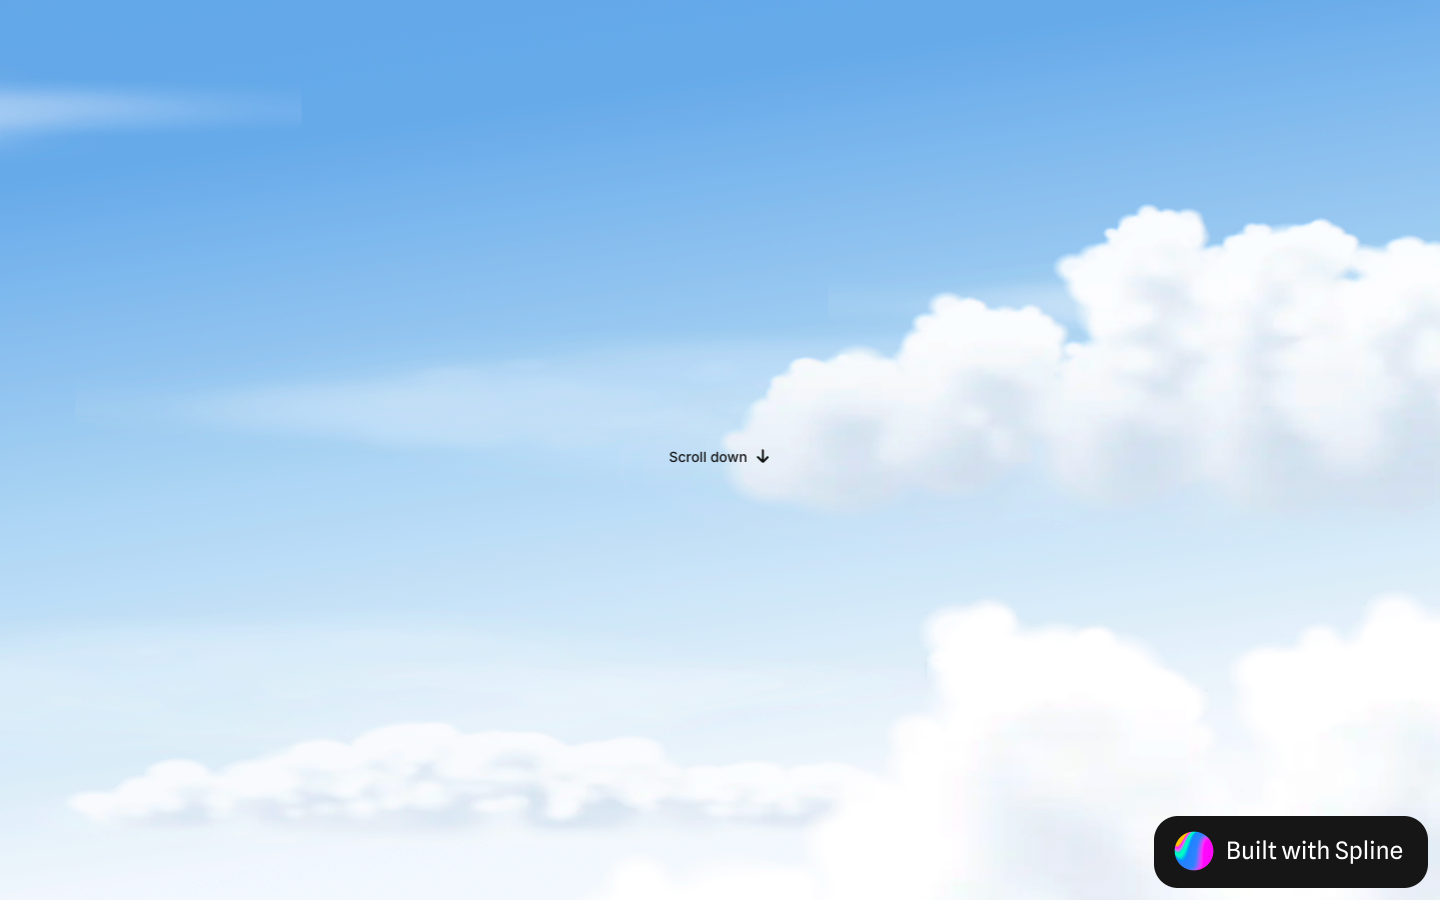
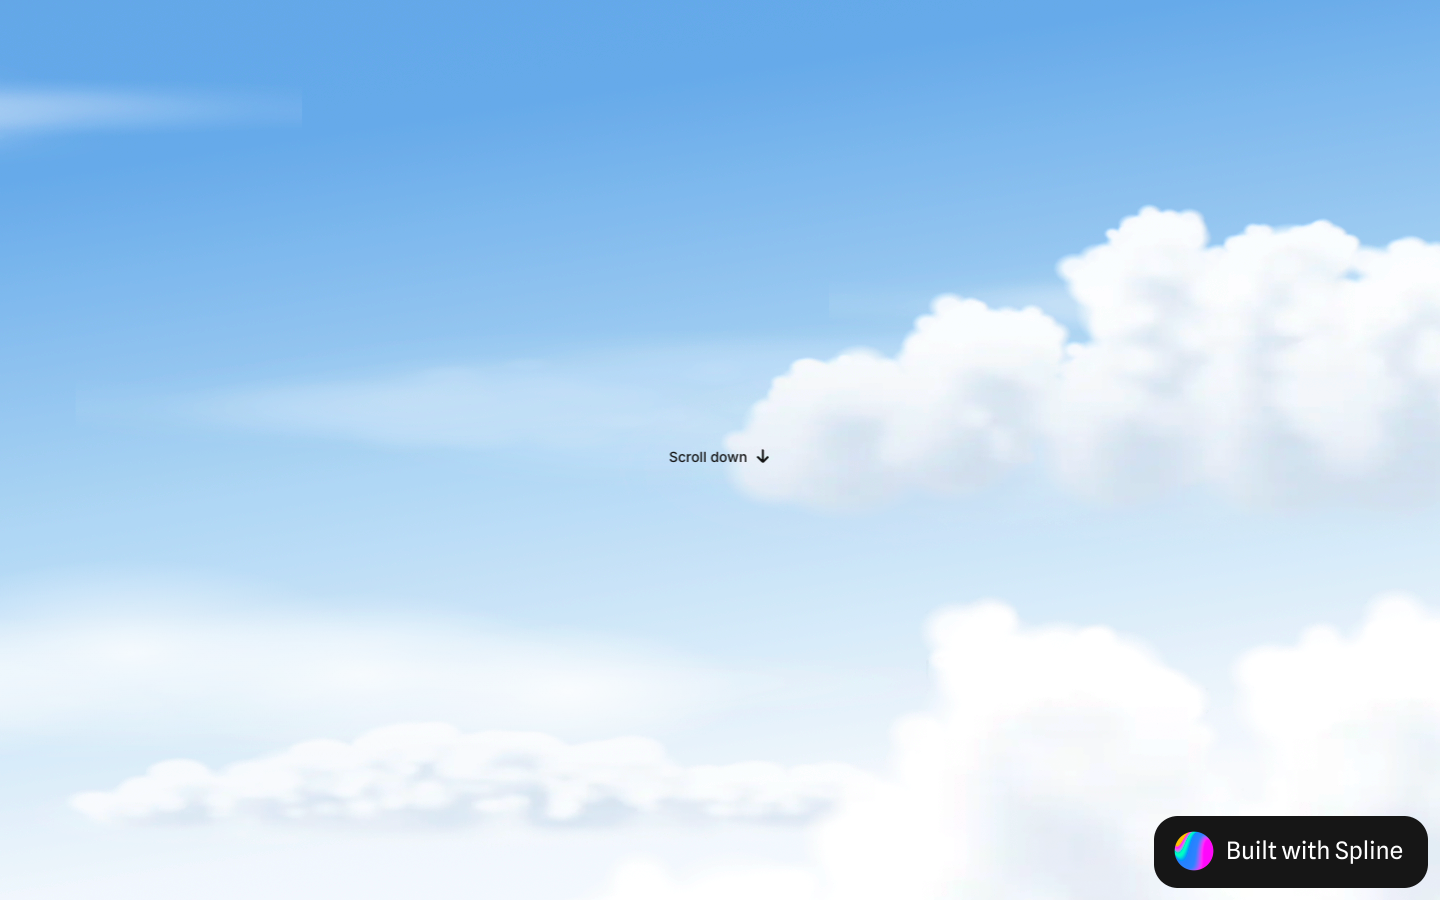
Intro: soft cloud wisps drift in front of the text

Changed region(s): [[0.0, 0.6533, 0.1562, 0.7467], [0.2188, 0.7156, 0.25, 0.7467]]

diff --git a/src/styles/sections/intro.css b/src/styles/sections/intro.css
@@ -22,6 +22,7 @@
   letter-spacing: var(--tracking-display);
 }
 .intro__part { display: block; text-wrap: balance; }
+.intro__mist { display: none; }
 
 /* Skip intro: in the page for screen readers and keyboard users from the first frame,
    but not drawn. It becomes visible, top right, only while it has keyboard focus. */
@@ -83,6 +84,7 @@
   to { opacity: 1; transform: translateY(0); filter: blur(0); }
 }
 @keyframes intro-part-out { from { opacity: 1; } to { opacity: 0; } }
+@keyframes wisp-drift { from { transform: translateX(calc(var(--shift-wisp-drift) * -1)); } to { transform: translateX(var(--shift-wisp-drift)); } }
 @keyframes hint-float { from { transform: translateY(calc(var(--shift-hint-float) * -1)); } to { transform: translateY(var(--shift-hint-float)); } }
 
 /* Staged mode */
@@ -106,6 +108,30 @@
   .js .hero__content { transition: opacity var(--duration-base) var(--ease-enter); }
   .is-intro-lingering .hero__content { opacity: 0; transition: none; }
   .is-intro-leaving .intro__lines { opacity: 0; }
+
+  /* Cloud wisps in front of the text, so the lines look like they float among clouds.
+     scroll.js moves each wisp up with the intro scroll (the outer span);
+     the inner span sways sideways on its own. */
+  .js .intro__mist { display: block; position: absolute; inset: 0; pointer-events: none; overflow: hidden; opacity: var(--opacity-mist); }
+  .js .intro__wisp { position: absolute; top: 50%; width: var(--size-wisp-w); height: var(--size-wisp-h); margin-top: calc(var(--size-wisp-h) / -2); will-change: transform; }
+  .js .intro__wisp > span {
+    display: block;
+    width: 100%;
+    height: 100%;
+    background:
+      radial-gradient(28% 42% at 22% 58%, var(--color-mist), var(--color-mist-edge) 70%),
+      radial-gradient(30% 50% at 42% 46%, var(--color-mist), var(--color-mist-edge) 70%),
+      radial-gradient(26% 44% at 62% 54%, var(--color-mist), var(--color-mist-edge) 70%),
+      radial-gradient(22% 36% at 80% 60%, var(--color-mist), var(--color-mist-edge) 70%);
+    animation: wisp-drift var(--duration-wisp-drift) ease-in-out infinite alternate;
+  }
+  .js .intro__wisp--1 { left: -22vw; }
+  .js .intro__wisp--2 { right: -26vw; }
+  .js .intro__wisp--2 > span { animation-delay: calc(var(--duration-wisp-drift) / -3); }
+  .js .intro__wisp--3 { left: -8vw; }
+  .js .intro__wisp--3 > span { animation-direction: alternate-reverse; }
+  .js .intro__wisp--4 { right: -18vw; }
+  .js .intro__wisp--4 > span { animation-delay: calc(var(--duration-wisp-drift) / -2); }
 
   /* Scroll label: floats in the middle of the empty sky until the first scroll */
   .js .intro__hint { bottom: auto; top: 50%; transform: translate(-50%, -50%); }

diff --git a/src/scroll.js b/src/scroll.js
@@ -120,8 +120,26 @@ function applyCamera() {
     dx: pointer.x * TRACK.slide * follow,
     rotY: -pointer.x * TRACK.turn * follow,
   });
+  moveMist(introT + MIST.linger * progress[1] * (1 - gate.value));
   // The static image slides the same way, for phones and before the scene has loaded.
   setFallbackShift(clamp01((introT * 4.4 + progress[1] * gate.value) / 5.4)); // weighted by scroll length; the hills wait for the hero too
+}
+
+// Cloud wisps in front of the intro text. Each one rises up through the screen and passes
+// the text at a different point of the intro (roughly one per line), so every line is
+// veiled for a moment and then clears. They follow the same even pace as the camera.
+const MIST = {
+  passAt: [0.14, 0.38, 0.62, 0.86], // intro progress at which each wisp crosses the middle
+  travel: 170,                      // screen heights (in vh) a wisp rises per whole intro
+  linger: 0.35,                     // keeps rising a little while the last lines finish
+};
+let wisps = null;
+function moveMist(t) {
+  if (!wisps) wisps = Array.from(document.querySelectorAll('.intro__wisp'));
+  wisps.forEach((wisp, i) => {
+    const y = (MIST.passAt[i] - t) * MIST.travel;
+    wisp.style.transform = `translate3d(0, ${y.toFixed(2)}vh, 0)`;
+  });
 }
 
 // Lets intro.js push the camera a little along its path and back.

diff --git a/index.html b/index.html
@@ -39,6 +39,14 @@
             <span class="intro__part">inefficient player.</span>
           </p>
 
+          <!-- Soft cloud wisps in front of the text: decoration only -->
+          <div class="intro__mist" aria-hidden="true">
+            <span class="intro__wisp intro__wisp--1"><span></span></span>
+            <span class="intro__wisp intro__wisp--2"><span></span></span>
+            <span class="intro__wisp intro__wisp--3"><span></span></span>
+            <span class="intro__wisp intro__wisp--4"><span></span></span>
+          </div>
+
           <a class="intro__hint" id="intro-hint" href="#hero">
             <span class="intro__hint-inner">
               Scroll down

diff --git a/src/styles/tokens.css b/src/styles/tokens.css
@@ -71,6 +71,15 @@
   --ease-enter: cubic-bezier(0.22, 1, 0.36, 1);    /* fast start, soft landing */
   --ease-exit: cubic-bezier(0.4, 0, 1, 1);          /* soft start, quick leave */
 
+  /* Cloud wisps in front of the intro text */
+  --color-mist: rgba(255, 255, 255, 0.95);
+  --color-mist-edge: rgba(255, 255, 255, 0);
+  --opacity-mist: 0.8;                     /* translucent, so covered letters still read */
+  --size-wisp-w: 80vw;
+  --size-wisp-h: 30vh;
+  --duration-wisp-drift: 16s;              /* slow sideways sway, on top of the scroll motion */
+  --shift-wisp-drift: 3vw;
+
   /* Layers */
   --z-scene: 0;
   --z-content: 1;

diff --git a/design/page-spec.md b/design/page-spec.md
@@ -23,6 +23,7 @@ Motion:
 - The intro stays pinned while the reader scrolls through 4.4 screens. Only one part is visible at a time.
 - Each part owns a quarter of the intro. When its quarter reaches the middle of the screen, the part is revealed: it fades in, rises 30px and comes out of an 8px blur over 0.8 s. The part before it fades out in 0.2 s first.
 - Scrolling is never locked: the camera and clouds follow the scroll as before. Only the text is locked into a sequence: lines play strictly in order, one at a time, and each stays for its full reveal plus a short rest (about 1.2 s) before the next may replace it. The lines share the first 75% of the pinned scroll; the last 25% is runway so the final line finishes before the intro ends. If the reader scrolls past the intro before the last line has played, the scroll and the camera carry on while the text stays on screen, but the camera stays in the clouds (sinking and drifting forward). The hills belong to the hero only: once the last line has had its time, the clouds part and the hills rise in over 1.2 s, and the hero headline fades in. The page only holds if the reader reaches the hero before that. Scrolling back up is free. Skip intro bypasses everything.
+- Soft cloud wisps float in front of the text: four translucent wisps rise through the screen with the scroll, each passing over the text at a different point (about one per line), so the lines look like they float among clouds. They sway sideways slowly on their own. Not shown with reduced motion.
 - The camera descends through the clouds at an even pace: it follows the scroll, but never runs ahead of the lines. Each line unlocks an equal quarter of the descent, spread over the time the line is on screen, so a fast scroll gives a steady glide instead of a jump and a freeze. Scrolling up reverses it.
 - After 6 s idle: the camera dips so the hero headline peeks above the bottom edge, then settles back.
 - Clicking the label (or Enter on it) scrolls a little, which starts part 1.

diff --git a/design/decisions.md b/design/decisions.md
@@ -86,3 +86,9 @@
 - Fix: on a normal scroll the lines ran behind and the page waited at the end of the intro, so the background stopped during the last two lines. Now the scroll and camera carry on into the move to the hero while the text lingers on screen; the hero headline fades in once the last line is done. The hold remains only at the hero itself.
 - Fix: the hills showed while intro lines were still playing. The camera now stays in the clouds (extra sink of 500 and forward drift of 600 over the lingering stretch) until the last line is done, then blends into the swoop to the hero over 1.2 s. Scrolling back into the intro closes it again in 0.3 s. The phone fallback image follows the same rule.
 - Fix: the background still froze on the last lines, because the camera followed the scroll and the scroll got ahead of the text. The intro descent is now capped by the lines: each line unlocks a quarter of it, linearly over its 1.2 s. Slow scroll follows the scroll; fast scroll glides at a constant pace with the lines.
+
+## 2026-11-17 · Intro: clouds in front of the text
+- The 3D scene sits behind the page, so its clouds cannot cover the text. Added a separate front layer: four soft wisps made of CSS gradients (no images, no new dependency), at 80% opacity, rising with the same even pace as the camera and swaying sideways over 16 s.
+- Each wisp crosses the text at a different point of the intro, roughly one per line, so covering is brief and partial.
+- Accessibility cost: contrast drops where a wisp overlaps letters. Kept translucent and passing; hidden with reduced motion and without JavaScript.
+- New tokens: --color-mist, --color-mist-edge, --opacity-mist, --size-wisp-w, --size-wisp-h, --duration-wisp-drift, --shift-wisp-drift.
